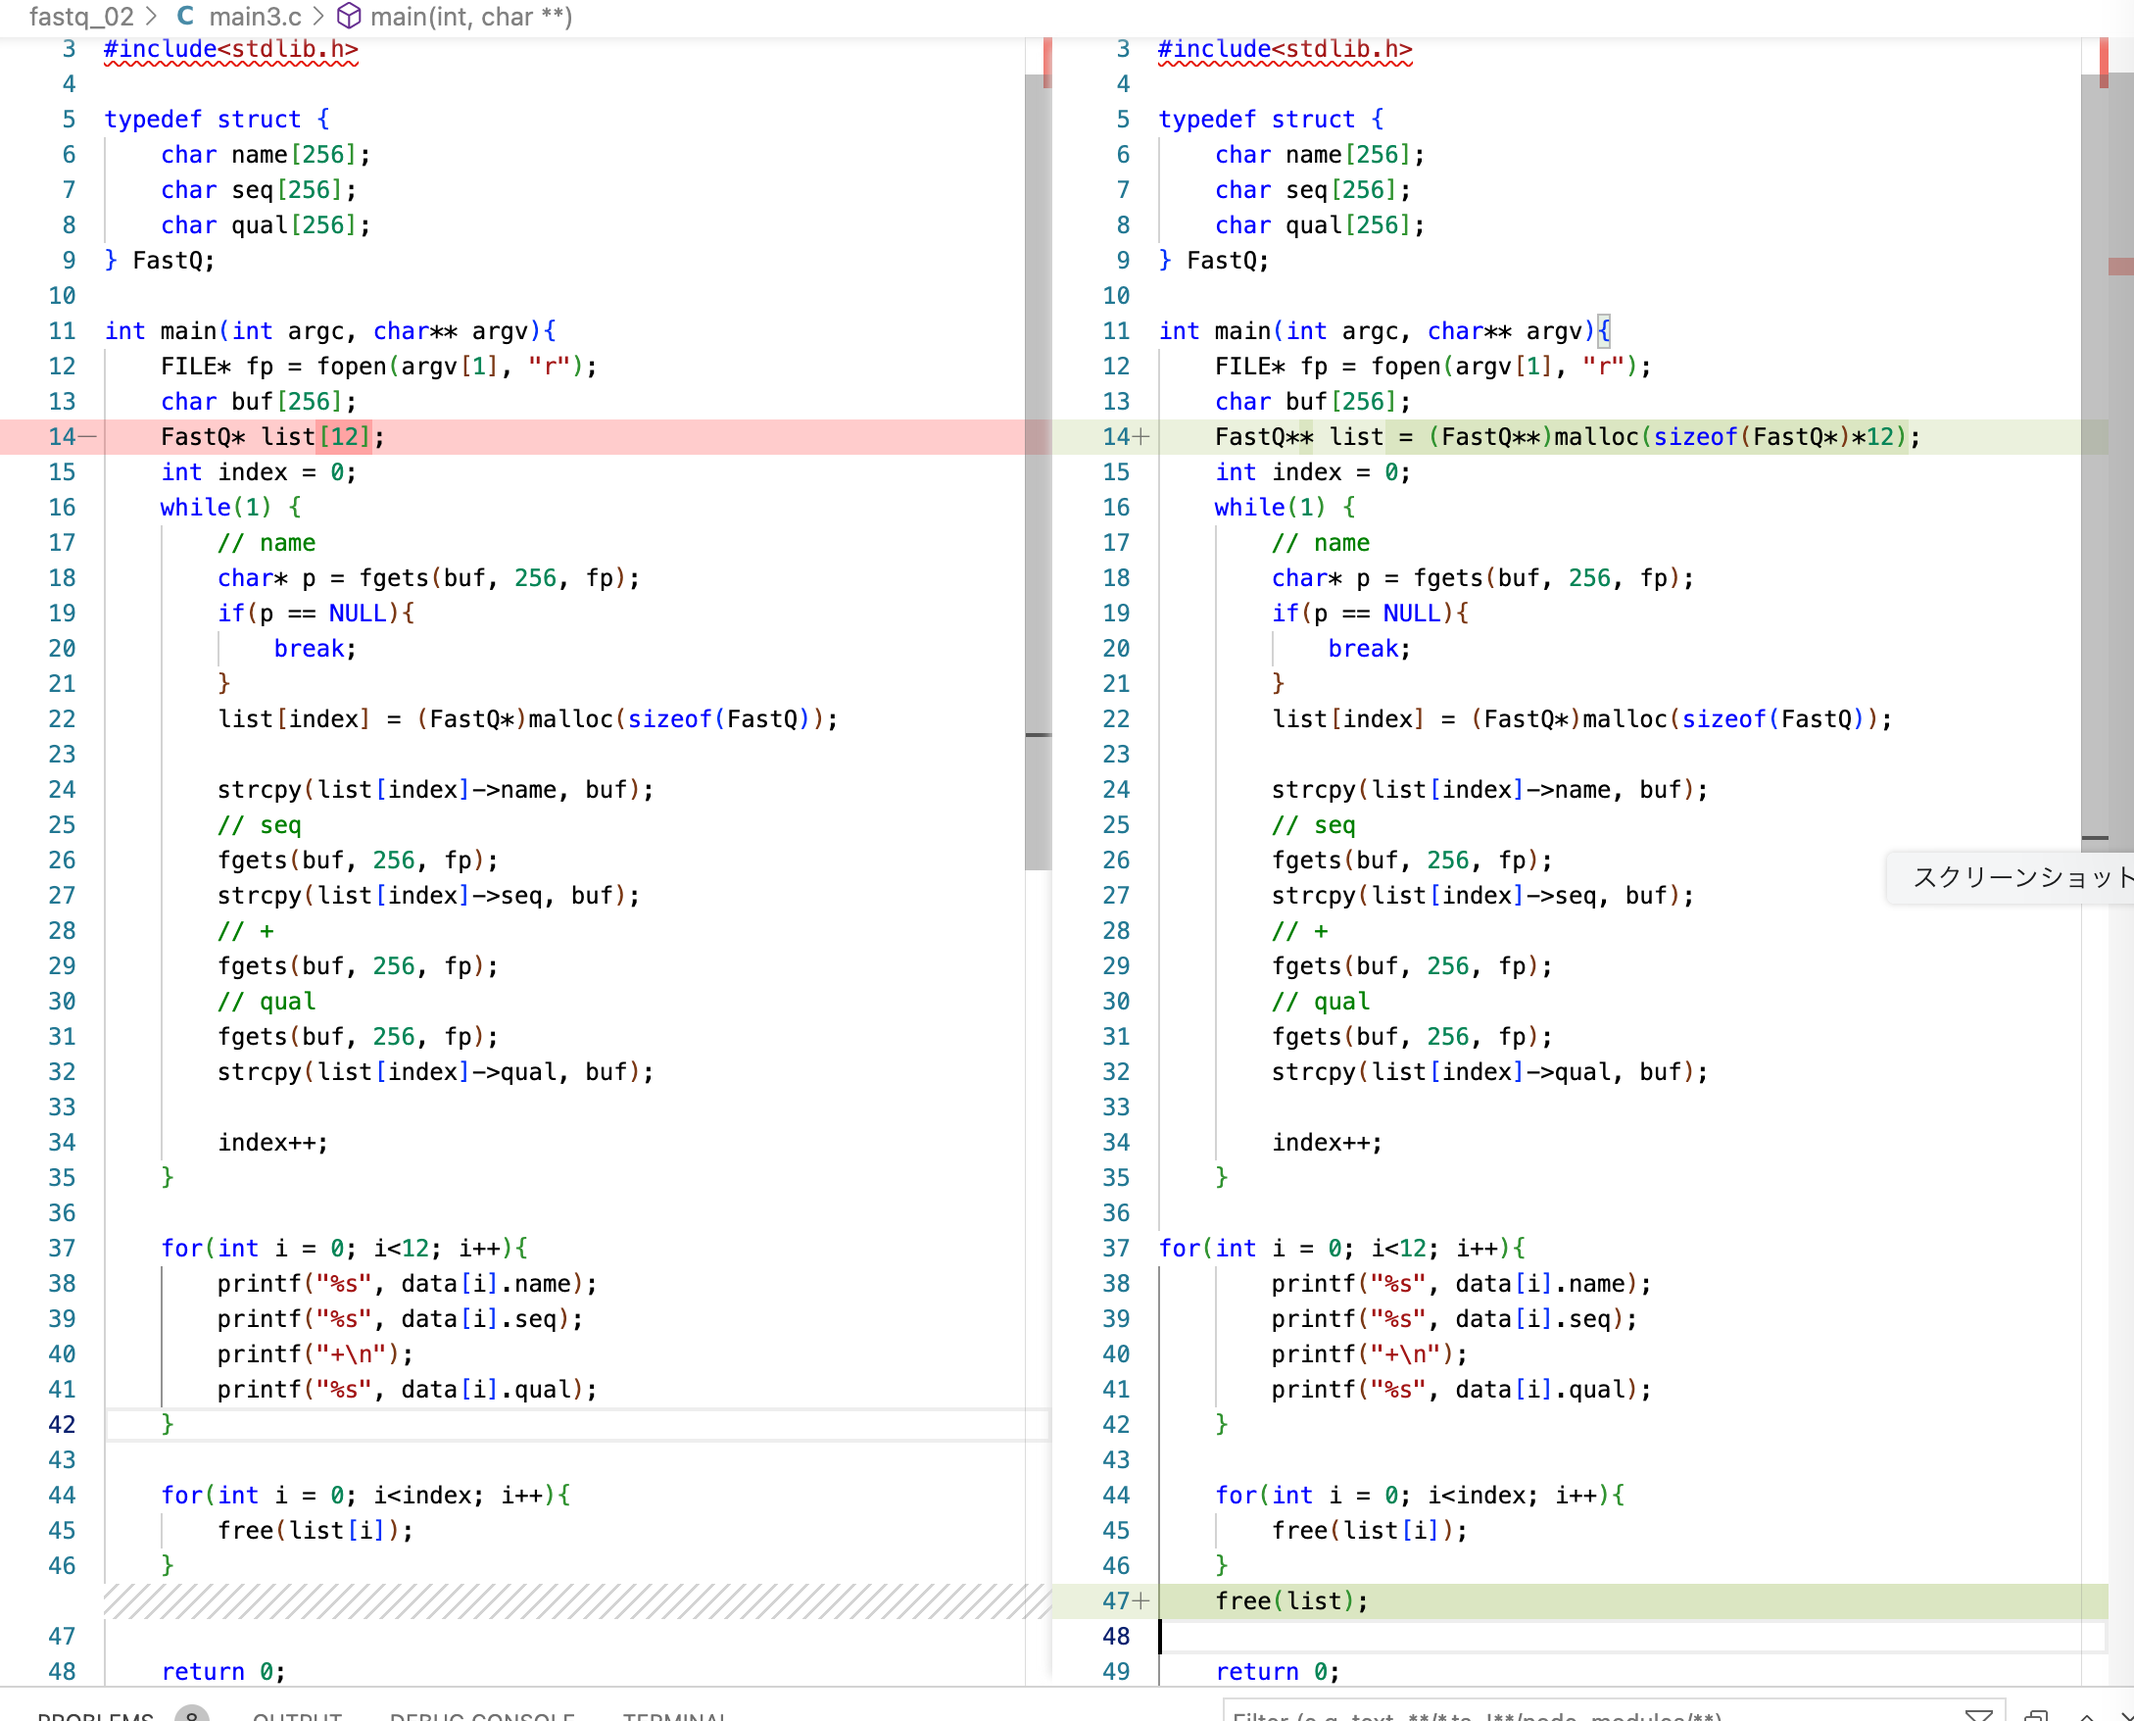
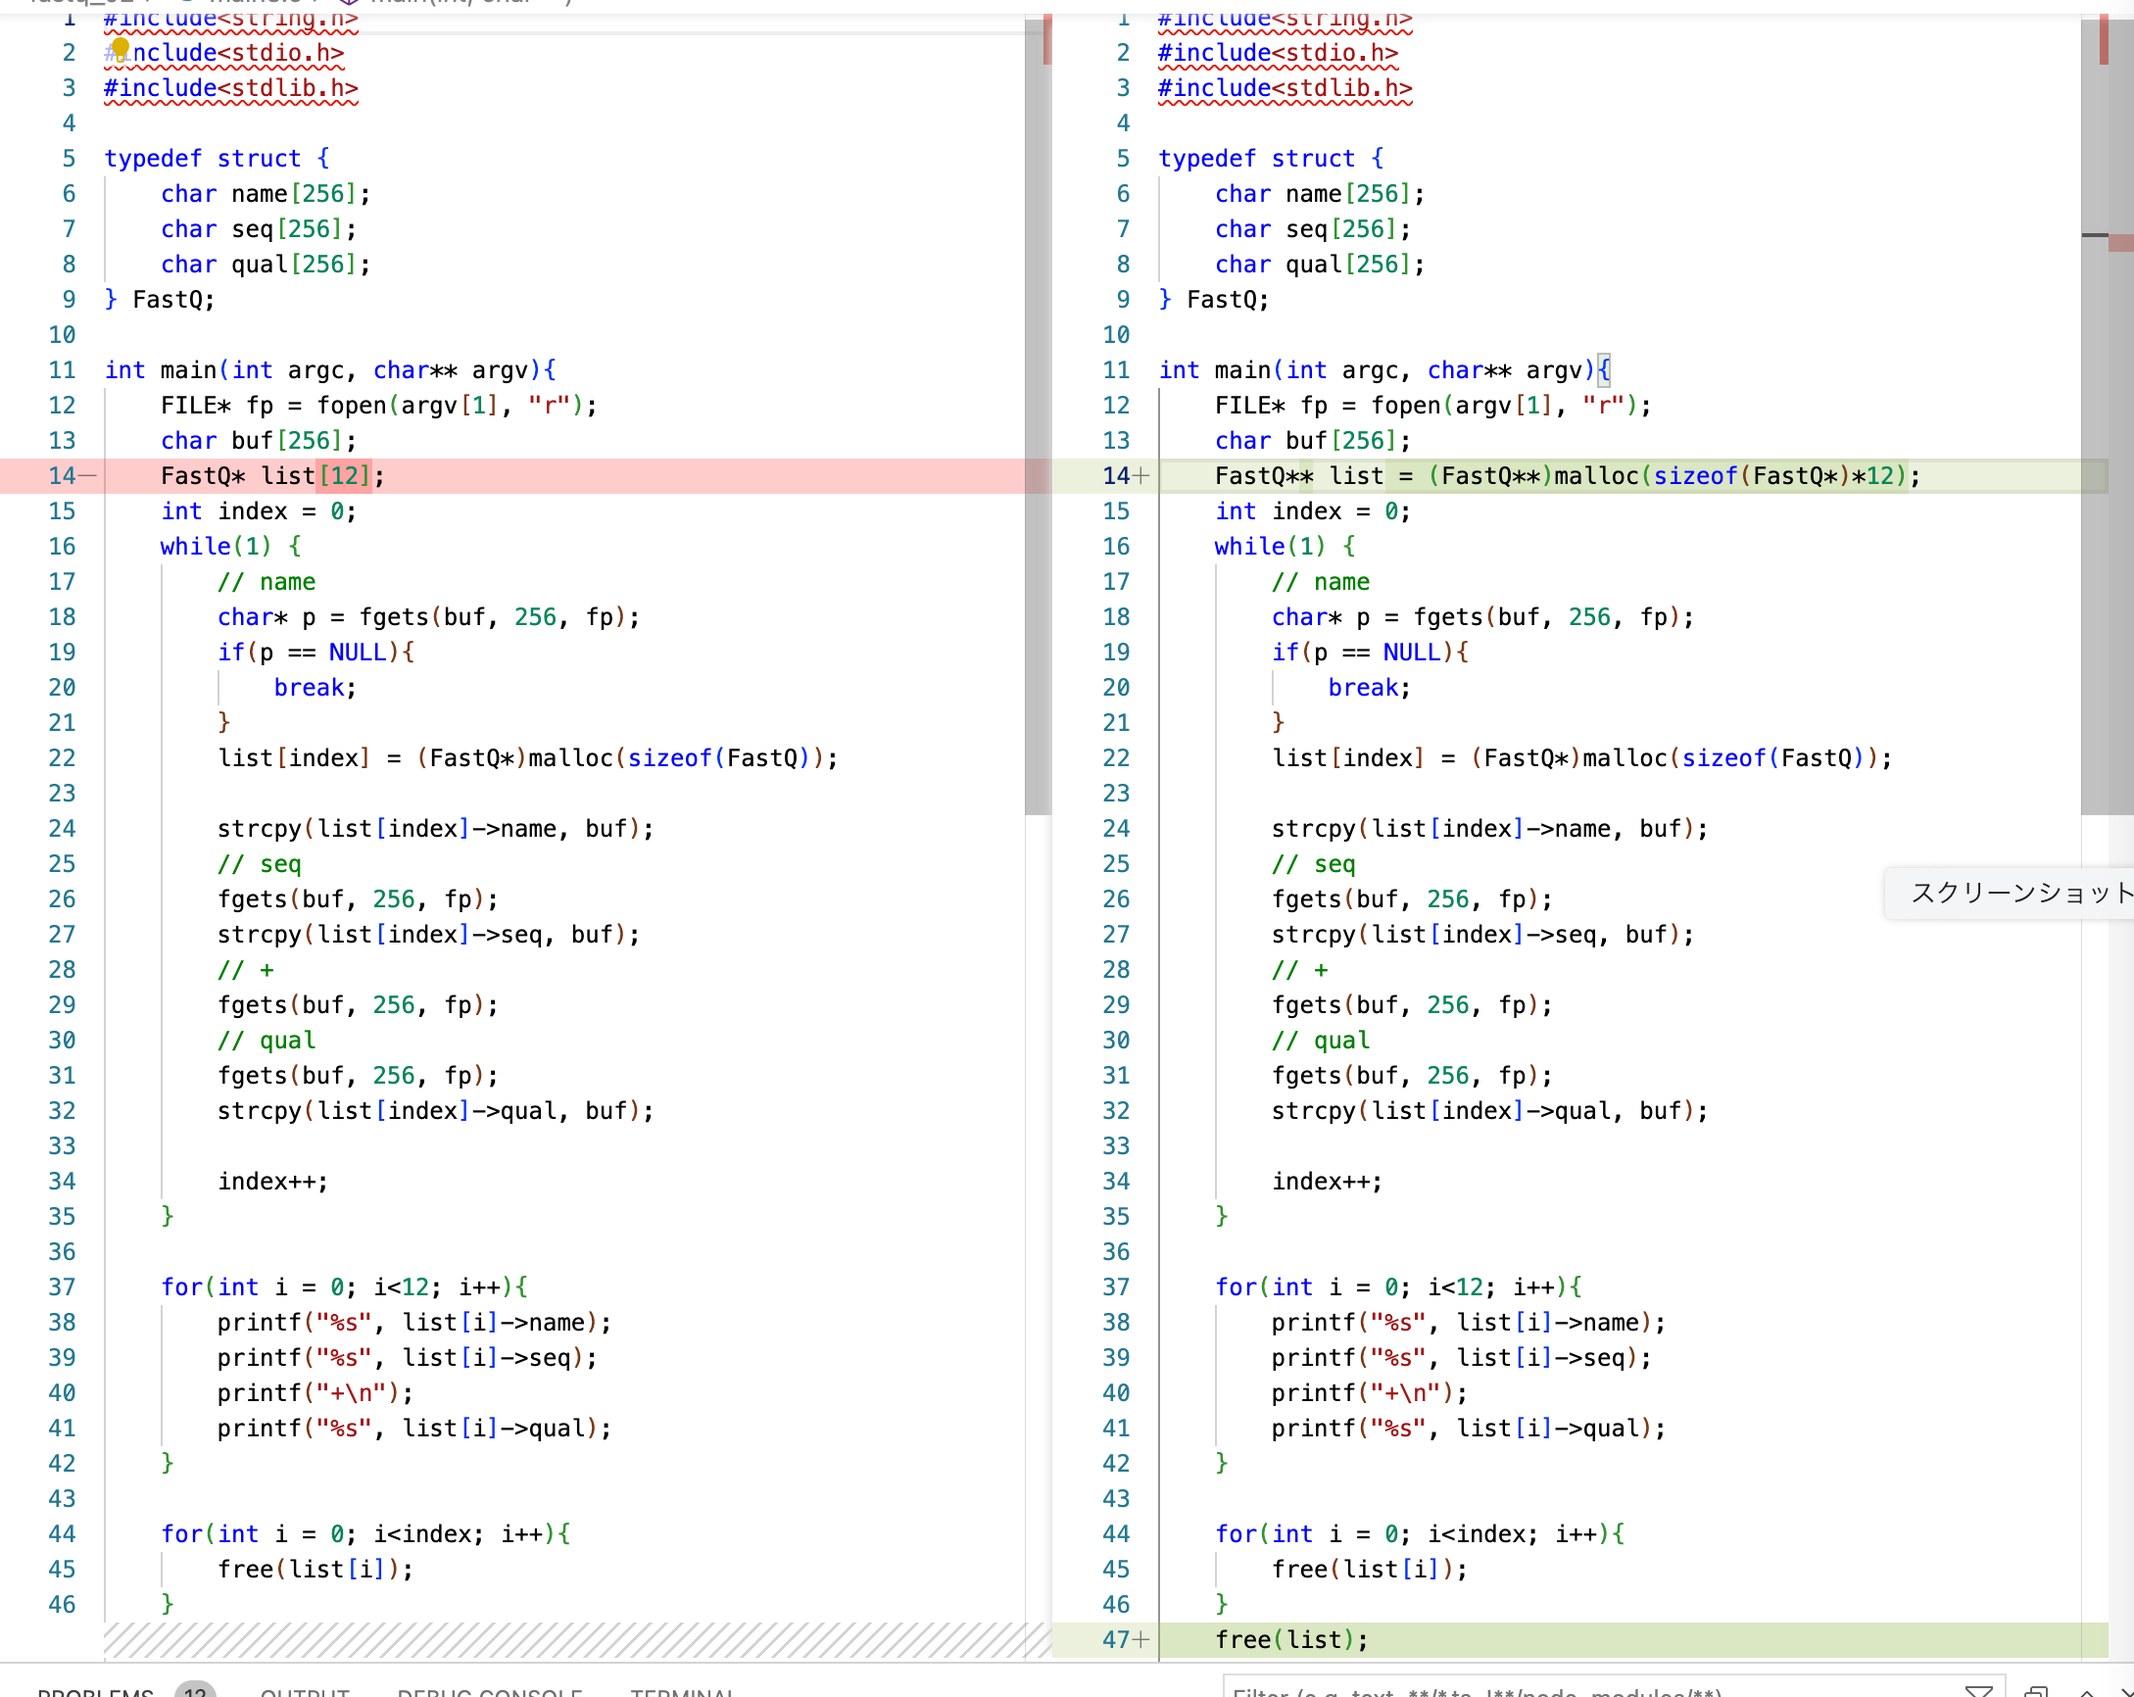
ok

diff --git a/fastq_02/main3.c b/fastq_02/main3.c
@@ -34,13 +34,13 @@ int main(int argc, char** argv){
         index++;
     }
 
-for(int i = 0; i<12; i++){
-        printf("%s", data[i].name);
-        printf("%s", data[i].seq);
+    for(int i = 0; i<12; i++){
+        printf("%s", list[i]->name);
+        printf("%s", list[i]->seq);
         printf("+\n");
-        printf("%s", data[i].qual);
+        printf("%s", list[i]->qual);
     }
-    
+
     for(int i = 0; i<index; i++){
         free(list[i]);
     }

diff --git a/fastq_02/main2.c b/fastq_02/main2.c
@@ -35,10 +35,10 @@ int main(int argc, char** argv){
     }
 
     for(int i = 0; i<12; i++){
-        printf("%s", data[i].name);
-        printf("%s", data[i].seq);
+        printf("%s", list[i]->name);
+        printf("%s", list[i]->seq);
         printf("+\n");
-        printf("%s", data[i].qual);
+        printf("%s", list[i]->qual);
     }
     
     for(int i = 0; i<index; i++){
